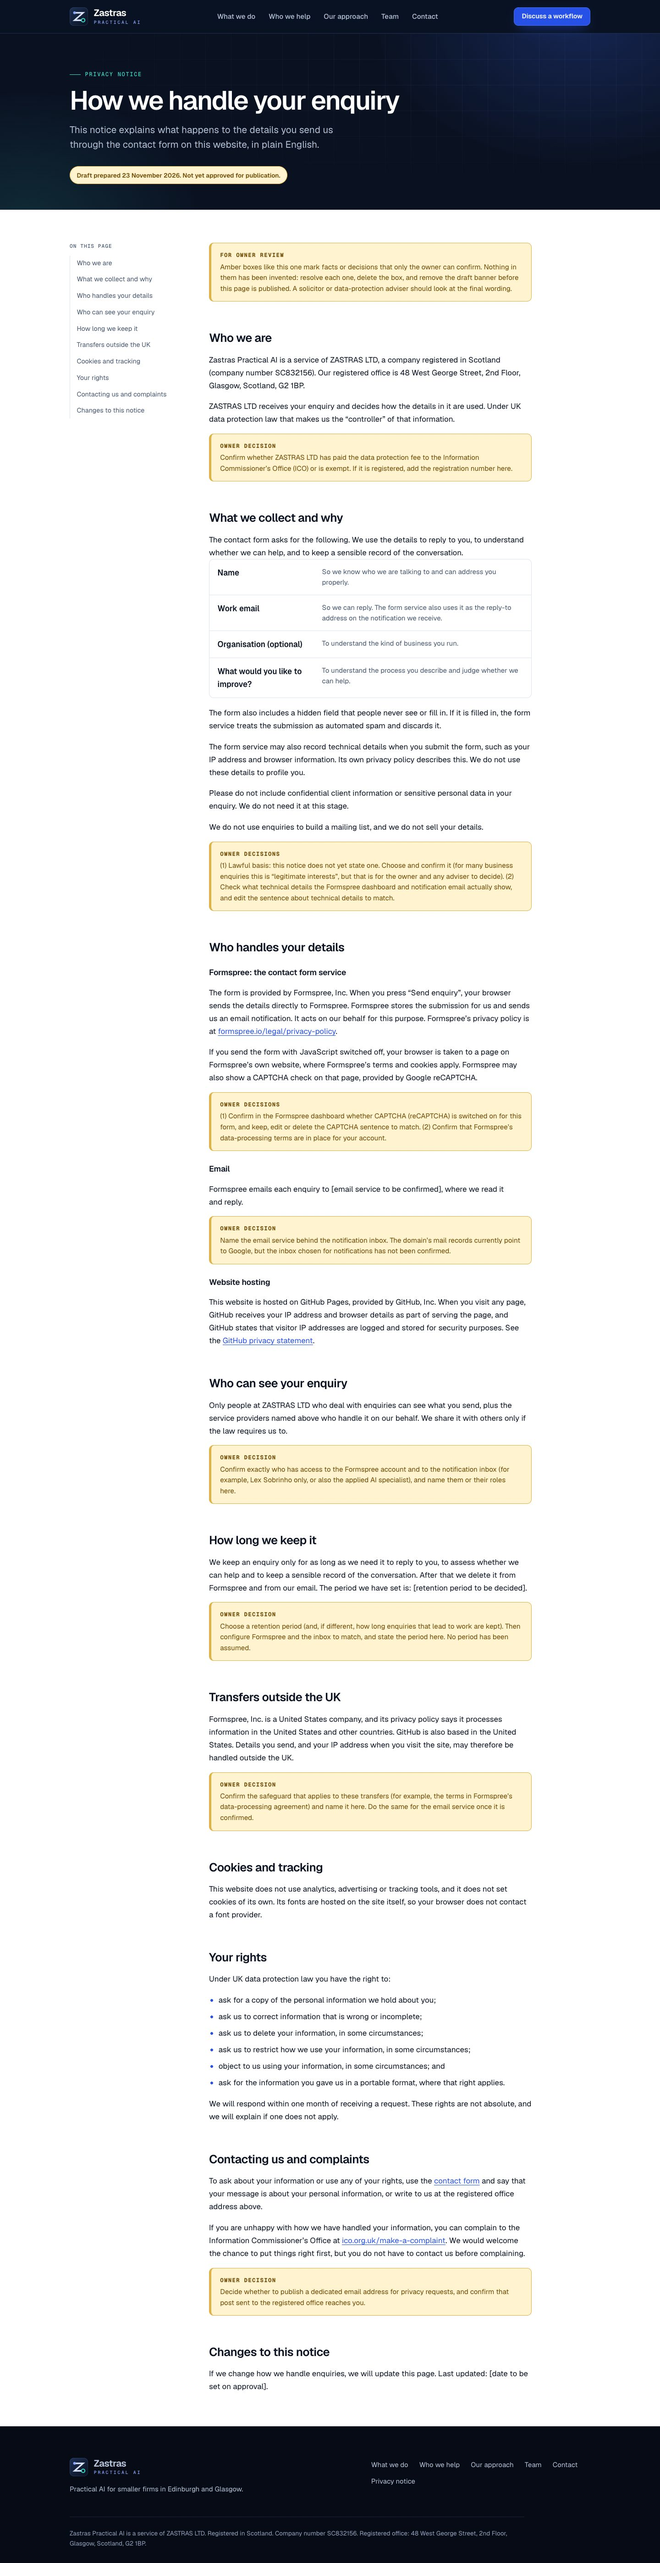
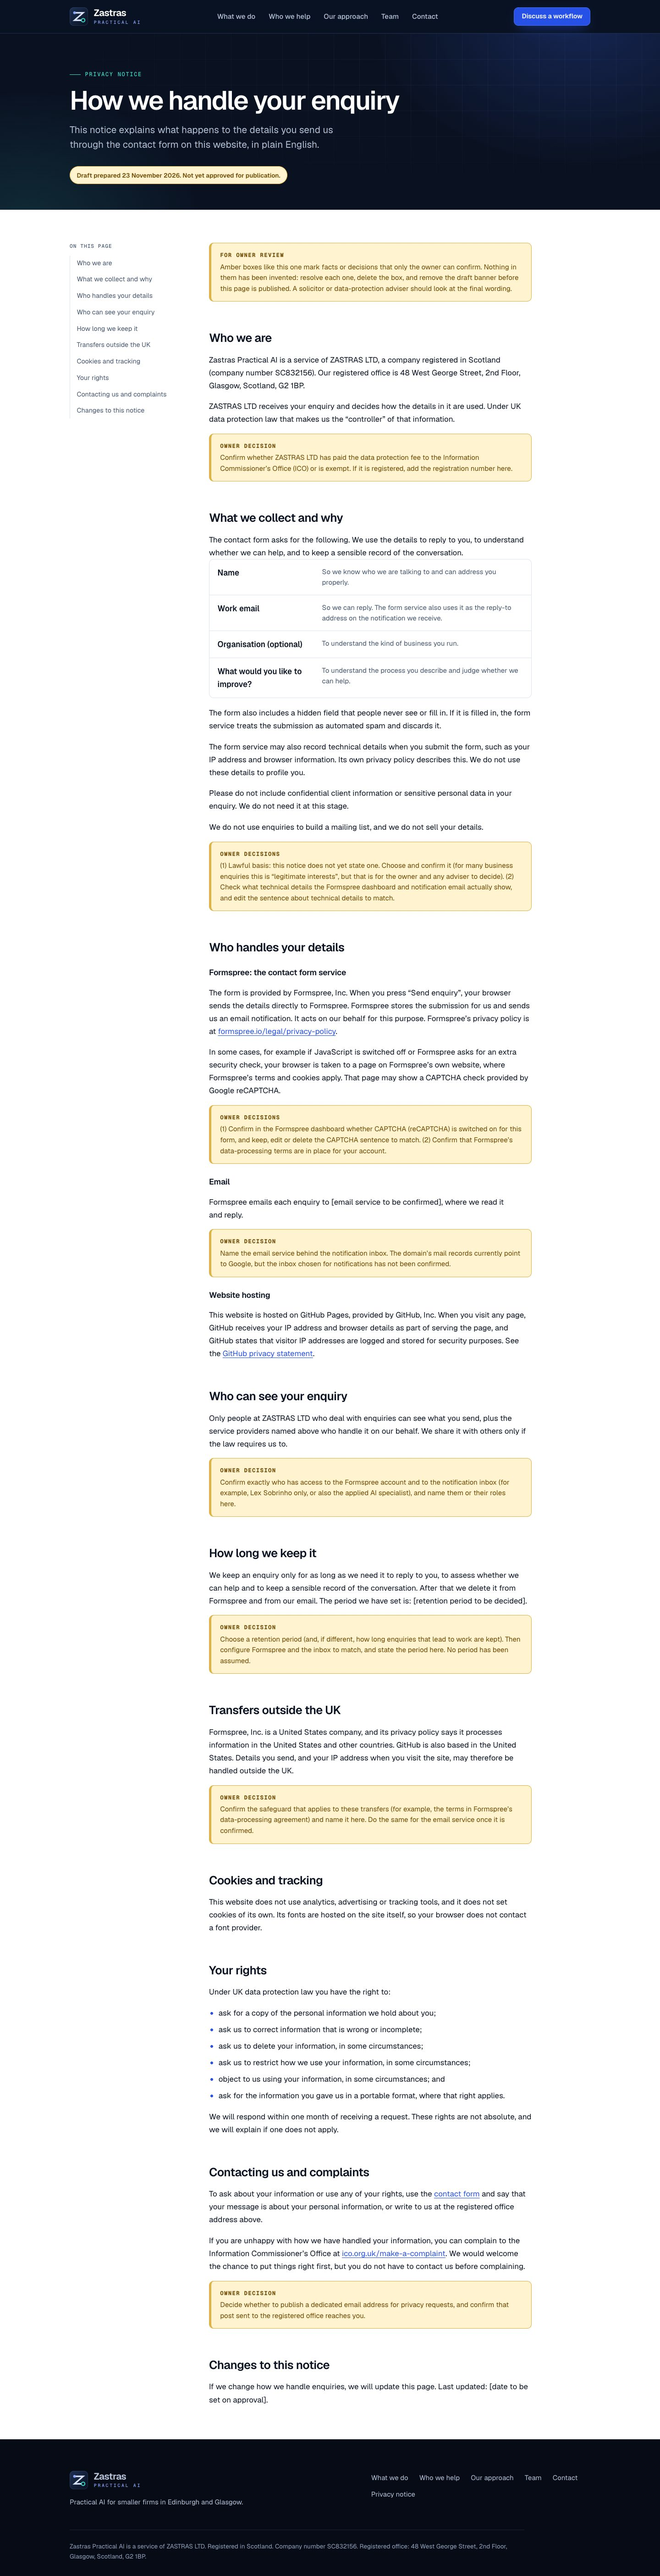
Add Lex's photograph to his profile card
6:5 crop of the supplied headshot, exported as WebP at 1200 and 600 px (34 KB and 12 KB, no metadata) and served with srcset. The 1.9 MB original stays in the project folder and is git-ignored. The check script now validates srcset candidates. Docs and previews updated; the placeholder SVG is removed.

diff --git a/site/index.html b/site/index.html
@@ -466,14 +466,16 @@
 
         <div class="team">
           <!-- ===== Profile 1: Lex Sobrinho =====
-               To add the real photograph: save it in assets/img/team/ (for example lex-sobrinho.jpg),
-               then change src below, set width/height to the file's pixel size and update the alt text
-               to "Lex Sobrinho". The frame crops to 6:5, so keep the face in the upper half; adjust
-               --portrait-pos (horizontal vertical) if the crop needs nudging. See README. -->
+               To swap the photograph: export a new image at 6:5 (for example 1200 x 1000 px) and a half-size copy,
+               save both in assets/img/team/, then update src, srcset, width, height and alt below. The frame always
+               crops to 6:5 with object-fit: cover; nudge --portrait-pos (horizontal vertical) if a crop is off. See README. -->
           <article class="card profile" aria-labelledby="profile-lex">
-            <figure class="portrait" style="--portrait-pos: 50% 25%">
-              <img src="assets/img/team/lex-sobrinho-placeholder.svg" width="1200" height="1000" loading="lazy" decoding="async"
-                   alt="Placeholder: photograph of Lex Sobrinho to follow">
+            <figure class="portrait" style="--portrait-pos: 50% 30%">
+              <img src="assets/img/team/lex-sobrinho-1200.webp"
+                   srcset="assets/img/team/lex-sobrinho-600.webp 600w, assets/img/team/lex-sobrinho-1200.webp 1200w"
+                   sizes="(min-width: 56rem) 35rem, calc(100vw - 2.5rem)"
+                   width="1200" height="1000" loading="lazy" decoding="async"
+                   alt="Lex Sobrinho, smiling, in a navy jacket and white shirt against a plain grey background">
             </figure>
             <div class="profile__body">
               <h3 id="profile-lex">Lex Sobrinho</h3>

diff --git a/README.md b/README.md
@@ -96,18 +96,18 @@ Both cards are in the `#team` section of `site/index.html`, each with a comment 
 
 ### Lex Sobrinho
 
-1. Prepare the photograph: landscape or portrait both work; about **1200 × 1000 px** or larger, with the face in the upper half. Save as JPEG or WebP, ideally under 200 KB. For example, on macOS: `sips -Z 1600 photo.jpg --out lex-sobrinho.jpg` or `cwebp -q 80 photo.png -o lex-sobrinho.webp`.
-2. **Remove location and camera metadata before committing.** This repository is public. Tools such as `exiftool -all= photo.jpg` do this.
-3. Copy it to `site/assets/img/team/lex-sobrinho.jpg`.
-4. In the `<img>` for the Lex card, change `src`, set `width` and `height` to the file's real pixel size, and change `alt` to `Lex Sobrinho`.
-5. If the crop cuts off the head, adjust `--portrait-pos` on the surrounding `<figure>` (for example `50% 15%` shows more of the top).
-6. Delete `lex-sobrinho-placeholder.svg` once it is no longer used.
+Lex's photograph is in place: a 6:5 crop of the supplied headshot, exported as WebP at two sizes (`lex-sobrinho-1200.webp`, about 34 KB, and `lex-sobrinho-600.webp`, about 12 KB) and referenced with `srcset`. The original, much larger PNG is kept out of the repository by `.gitignore`. To swap it for a different photograph without touching the layout:
+
+1. Crop to **6:5** (the frame's shape), face in the upper half, then export two copies: **1200 × 1000 px** and **600 × 500 px**, as WebP or JPEG. For example: `cwebp -q 80 -resize 1200 1000 crop.png -o lex-sobrinho-1200.webp` and the same with `600 500`.
+2. **Remove location and camera metadata.** This repository is public. `cwebp` from a PNG leaves none behind; for JPEGs use `exiftool -all= photo.jpg`.
+3. Overwrite the two files in `site/assets/img/team/`. If the file names, sizes or format change, update `src`, `srcset`, `width`, `height` and `alt` on the `<img>` in the first card.
+4. If the crop cuts off the head, adjust `--portrait-pos` on the surrounding `<figure>` (for example `50% 15%` shows more of the top). A frame that is not exactly 6:5 is cropped by `object-fit: cover`, so nothing breaks.
 
 ### The applied AI specialist
 
 The card deliberately shows an abstract graphic (`applied-ai-specialist.svg`) and the public title only. **Do not add a name, initial or any identifying detail until the person has agreed to be named.** When they have:
 
-1. Follow the same photograph steps, saving the file under their name (for example `firstname-lastname.jpg`).
+1. Follow the same photograph steps (6:5 crop, two sizes, metadata removed), saving the files under their name (for example `firstname-lastname-1200.webp`).
 2. In the second card, replace the `<img>` (`src`, `width`, `height`, `alt`), the `<h3>`, the role line and the biography.
 3. Keep the `aria-labelledby` and `id` pair in step if you rename the heading's `id`.
 4. Remove `applied-ai-specialist.svg`.

diff --git a/docs/CUTOVER.md b/docs/CUTOVER.md
@@ -30,7 +30,7 @@ This checklist covers: preparing the repository, verifying and configuring the d
 
 - [ ] **Design** approved by the owner on the preview, at desktop and mobile widths.
 - [ ] **Copy** approved, including the three additions made during the build that were not in the brief (see [REVIEW.md](REVIEW.md), "Decisions made on your behalf").
-- [ ] **Team presentation** approved: Lex's photograph supplied and added; the applied AI specialist's page treatment confirmed (name and photograph added only if that person has agreed).
+- [ ] **Team presentation** approved: Lex's photograph (already added on the review branch) accepted; the applied AI specialist's page treatment confirmed (name and photograph added only if that person has agreed).
 - [ ] **Privacy notice** approved: every amber *owner decision* box resolved and deleted, the draft banner removed, placeholders in square brackets replaced (retention period, notification email service, last-updated date), and a data-protection adviser has read the final text.
 - [ ] **Formspree** confirmed by the owner: the notification inbox, who has access, retention, data-processing terms, and the **reCAPTCHA decision** (on: visitors are sent through Formspree's CAPTCHA page; off: they stay on the site, protected by the honeypot and Restrict to Domain). See README, "Settings that live in the Formspree dashboard". A real test submission has been made from the preview and confirmed in both the Formspree dashboard and the notification inbox.
 - [ ] **Companies House** record re-checked on the day: <https://find-and-update.company-information.service.gov.uk/company/SC832156>. Name, number and registered office must match the legal footer exactly. (They matched on 23 November 2026.)

diff --git a/docs/REVIEW.md b/docs/REVIEW.md
@@ -75,7 +75,7 @@ None of these were in the brief. Each is easy to reverse; say if you want any ch
 
 | Input | Where it goes |
 |---|---|
-| **Lex's photograph** | Replace the placeholder in the first team card. Steps: [README, "Replacing the two team images"](../README.md#replacing-the-two-team-images). Strip location metadata first; the repository is public. |
+| **Lex's photograph** | **Added** (a 6:5 crop of the supplied headshot, two WebP sizes, 34 KB and 12 KB, no metadata). To swap it later: [README, "Replacing the two team images"](../README.md#replacing-the-two-team-images). The original 1.9 MB PNG stays in the project folder and is git-ignored, not committed. |
 | **The applied AI specialist's name and photograph** | Only when that person agrees. Until then the card shows the abstract graphic and the title. Nothing identifying is in the repository, including file names, alt text and commit history. |
 | **Public contact address**, if one is to be shown | The contact section and the privacy notice. Today the form is the only route, and the error messages do not offer a fallback address. |
 | **Notification inbox confirmation** | Confirm in Formspree where notifications go, who can access them, then test (see above). |

diff --git a/docs/BRAND.md b/docs/BRAND.md
@@ -96,9 +96,9 @@ Defined once in `site/assets/css/main.css`, in this order of the file: tokens, b
 
 ## Imagery and graphics
 
-Used: the grid texture, nodes and links, the example workflow panel, line icons in one consistent weight, an abstract node-graph graphic in place of the applied AI specialist's portrait, and a dashed-guide placeholder where Lex's photograph will go.
+Used: the grid texture, nodes and links, the example workflow panel, line icons in one consistent weight, an abstract node-graph graphic in place of the applied AI specialist's portrait, and Lex's own photograph, cropped to the card's 6:5 frame.
 
-Avoided on purpose: robot faces, glowing brains, circuit-board stock art, server-room photographs, neon, gradients behind long text, and any fabricated human portrait. The portrait placeholders are clearly designed objects, not photographs.
+Avoided on purpose: robot faces, glowing brains, circuit-board stock art, server-room photographs, neon, gradients behind long text, and any fabricated human portrait. The applied AI specialist's abstract graphic is clearly a designed object, not a photograph, so nobody could mistake it for a real portrait.
 
 ## Motion
 
